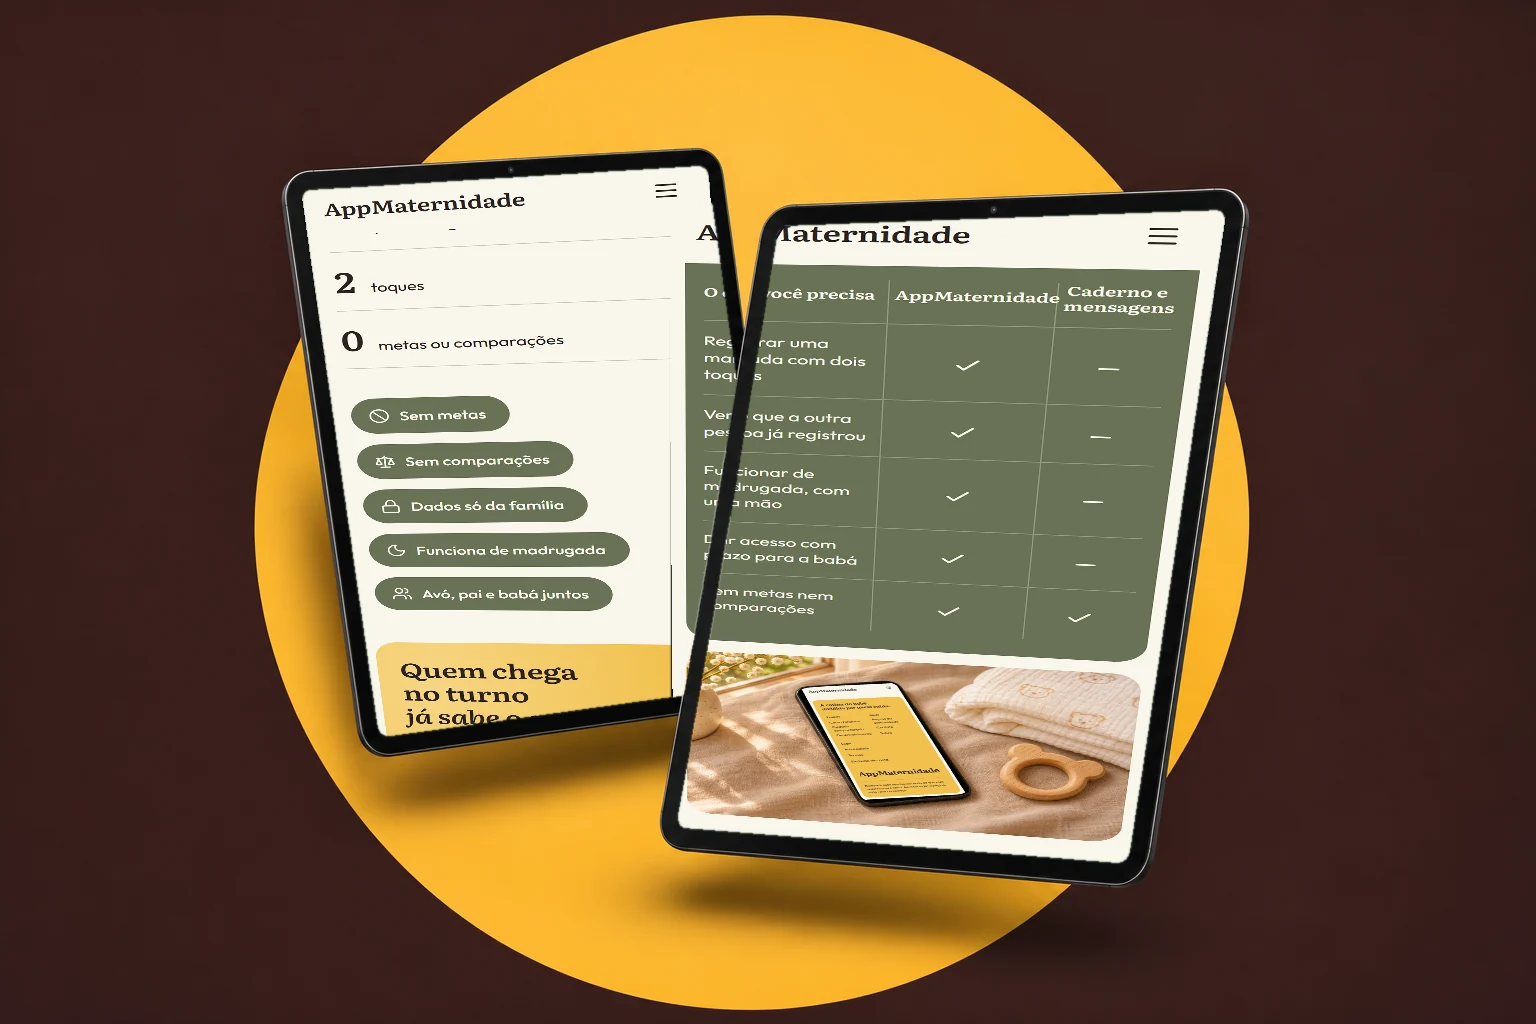
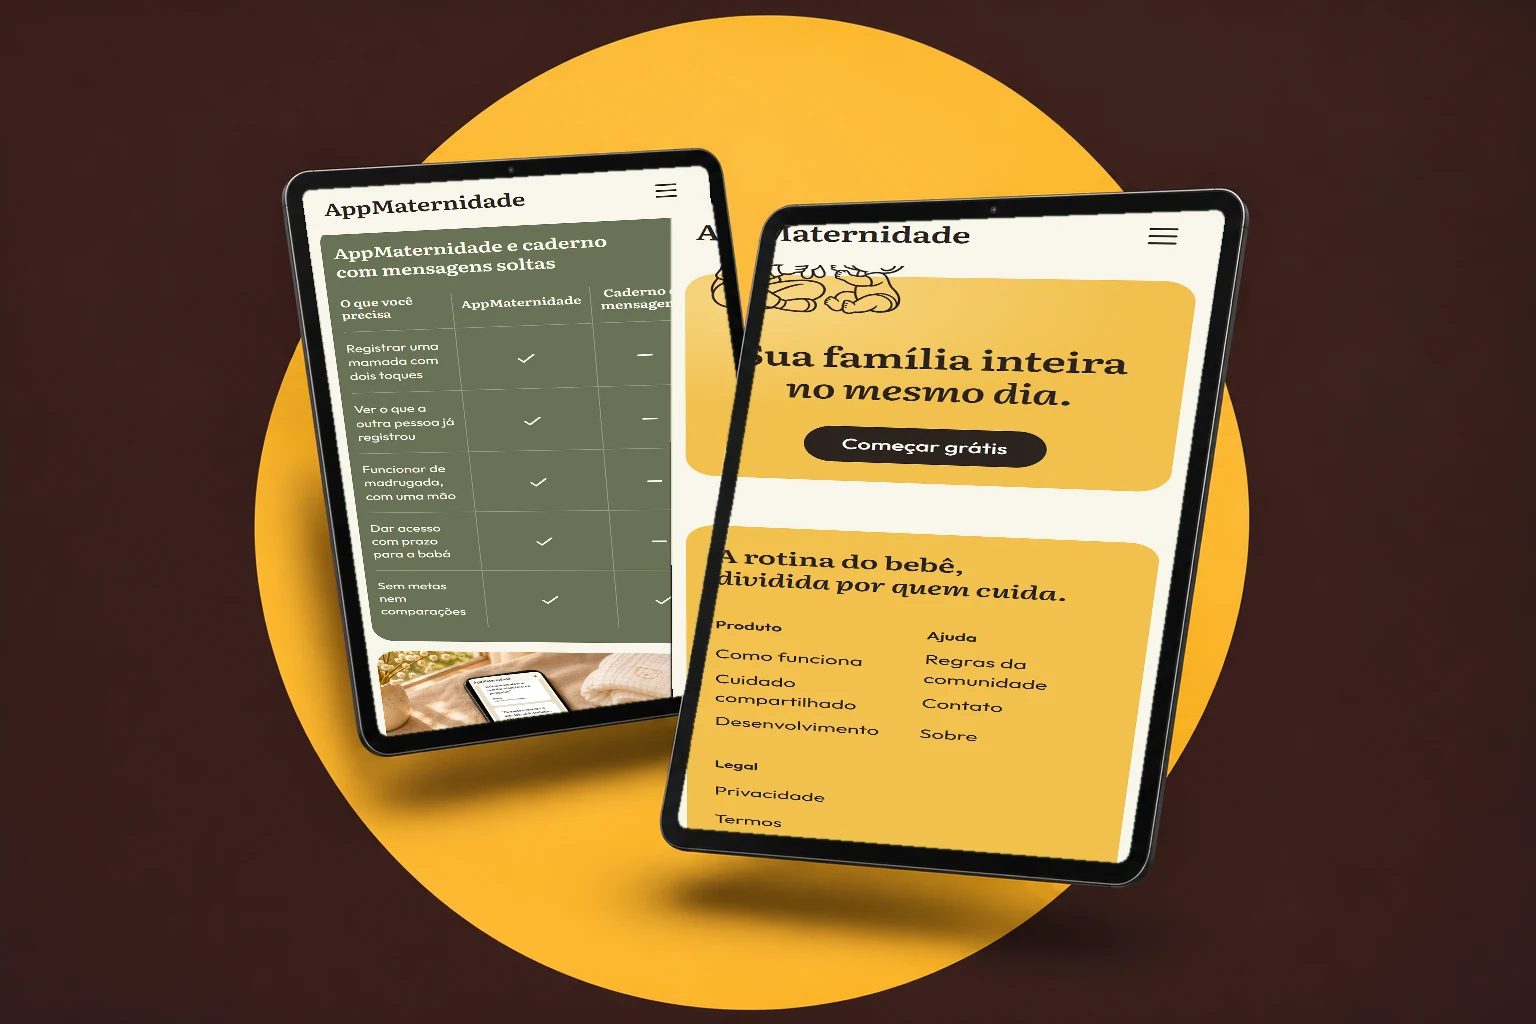
Recompor as cenas do Início com capturas da página final

Changed region(s): [[0.1875, 0.1875, 0.7812, 0.8438]]

diff --git a/web/public/cenas/inicio/PROVENANCE.md b/web/public/cenas/inicio/PROVENANCE.md
@@ -4,15 +4,15 @@ Scenes: Codex image_gen (ChatGPT plan) green-key studio scenes, composited offli
 
 | file | source scene | model | date | prompt id | real captures (one different screen per device) |
 |---|---|---|---|---|---|
-| heroi@1x.webp, heroi@2x.webp | `brutos/S1_trio_mel.png` sha256 1fb08107bd0b7ec6368f528325cd98a0efaf4db582c0859bbcc0587ca3d91d53 | Codex image_gen (ChatGPT plan) | 2026-11-11 | S1_trio_mel | Início top; Início at the shift-change card (`.cm-flutuante`); Início at the FAQ |
-| faixa-cacau@1x.webp, faixa-cacau@2x.webp | `brutos/S3_tablets_cacau.png` sha256 8d72fa3432647217545f9387bacfa310ce167c7592ec6a1554ed6521ea3d261d | Codex image_gen (ChatGPT plan) | 2026-11-11 | S3_tablets_cacau | Início at the numbers; Início at the comparison table |
+| heroi@1x.webp, heroi@2x.webp | `brutos/S1_trio_mel.png` sha256 1fb08107bd0b7ec6368f528325cd98a0efaf4db582c0859bbcc0587ca3d91d53 | Codex image_gen (ChatGPT plan) | 2026-11-11 | S1_trio_mel | Início at the numbers; at the shift-change card; at the FAQ |
+| faixa-cacau@1x.webp, faixa-cacau@2x.webp | `brutos/S3_tablets_cacau.png` sha256 8d72fa3432647217545f9387bacfa310ce167c7592ec6a1554ed6521ea3d261d | Codex image_gen (ChatGPT plan) | 2026-11-11 | S3_tablets_cacau | Início at the comparison table; at the closing panel (the left tablet overlaps the right one's left edge in the scene, so a screen with no text there was chosen) |
 | tabela@1x.webp, tabela@2x.webp | `brutos/S4_celular_linho.png` sha256 569aeaa94ec46e63c08640f4476cb12da6ff93e133c822c870fdf76691844b60 | Codex image_gen (ChatGPT plan) | 2026-11-11 | S4_celular_linho | Início at the testimonials |
 
 Output sha256:
 
-- heroi@1x.webp 4c0022bc1c35f0a4e55187ac1234d90b62e1d2760fbb97f4d2aeacae0c1671aa
-- heroi@2x.webp 9d6ae4f79abf3cb022aca96b74706dbdbcad29e300e2d80f1f17c594796d539f
-- faixa-cacau@1x.webp f57a4d25f85f32492aa298962a425816f461dd9db15827fe7a93d45abe3366f6
-- faixa-cacau@2x.webp 9393c9214850fca235b84aa10e893aeb970ca559a360d2f4d28084bb07145706
-- tabela@1x.webp 6f2b2bba8f78dbb01ff82fc8801f1479a23ca8c8c80b061089abc10f804c59c7
-- tabela@2x.webp 4b2a6c09e60f48b47dd0c00deb39e4fcd773914f47ce235ea0cb31d07e5abc2a
+- heroi@1x.webp 45968638a96552cea51366e3a6b92b672b27086b3a88a645c68d3eabcf333005
+- heroi@2x.webp a12ecef9a7c9100781266f7b1ff6ceac1bafe6d8538ae2f12d7622e195552fd0
+- faixa-cacau@1x.webp 27d29eb3f41aa86ab662f15b4f349ee70f3fec8ef29e598f88dffafc0ca59433
+- faixa-cacau@2x.webp 1f627752cf43caee885dbfefc5f6120a43b81f4bb065479c6dc6599e05c197d9
+- tabela@1x.webp f376e575952336c336d1dea7ef298c5e73da2e6c9d4d2c875db3cd920ad2867b
+- tabela@2x.webp ebe9d4a8374ca0926682183d110befa46121ec689603c28534172f92d41a9dff
